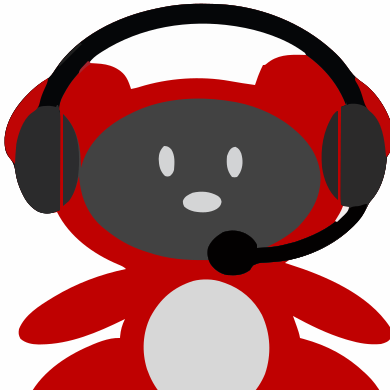
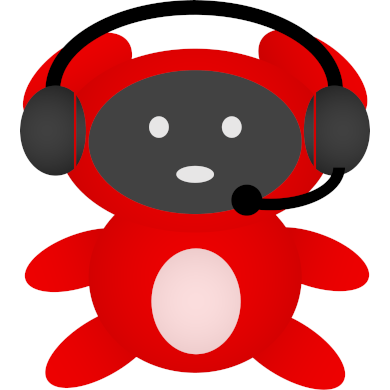
make links in messages clickable and adjust images

diff --git a/src/components/ChatView/ChatView.tsx b/src/components/ChatView/ChatView.tsx
@@ -1,34 +1,65 @@
 import "./ChatView.css"
-import {ChatMessage} from "../../types/ChatMessage";
-import mika from "../../assets/mika.png"
-import {useEffect, useRef} from "react";
+import { ChatMessage } from "../../types/ChatMessage"
+import mika from "../../assets/mika_profilepicture.png"
+import { useEffect, useRef } from "react"
 
 type ChatViewProps = {
-    history: ChatMessage[]
+	history: ChatMessage[]
 }
 
 export default function ChatView(props: ChatViewProps) {
-    const messagesEndRef = useRef<HTMLDivElement>(null);
+	const messagesEndRef = useRef<HTMLDivElement>(null)
 
-    const scrollToBottom = () => {
-        messagesEndRef.current?.scrollIntoView({behavior: 'smooth'})
-    }
+	const scrollToBottom = () => {
+		messagesEndRef.current?.scrollIntoView({ behavior: "smooth" })
+	}
 
-    useEffect(() => {
-        scrollToBottom();
-    })
+	useEffect(() => {
+		scrollToBottom()
+	})
 
-    return (
-        <ul className="chatview-history">
-            {props.history.map((element: ChatMessage, index: number) =>
-                <li key={index}
-                    className={element.fromBot ? "chatview-bot-message" : "chatview-me-message"}>
-                    <span className="chatview-chatbubble">{element.fromBot ?
-                        <img src={mika} width={25} height={25} alt="Mika-Bot"/> : ""}{element.text} </span></li>
-            )}
-            <li>
-                <div ref={messagesEndRef}></div>
-            </li>
-        </ul>
-    )
+	function urlify(text: string) {
+		const urlRegex = /(https?:\/\/[^\s]+)/g
+		return text.split(urlRegex).map((part) => {
+			if (part.match(urlRegex)) {
+				return (
+					<a
+						key={Math.random().toString()}
+						className={"url"}
+						href={part}
+						target="_blank"
+						rel="noopener noreferrer"
+					>
+						{part}
+					</a>
+				)
+			}
+			return part
+		})
+	}
+
+	return (
+		<ul className="chatview-history">
+			{props.history.map((element: ChatMessage, index: number) => (
+				<li
+					key={index}
+					className={
+						element.fromBot ? "chatview-bot-message" : "chatview-me-message"
+					}
+				>
+					<span className="chatview-chatbubble">
+						{element.fromBot ? (
+							<img src={mika} width={25} height={25} alt="Mika-Bot" />
+						) : (
+							""
+						)}
+						<span> {urlify(element.text)} </span>
+					</span>
+				</li>
+			))}
+			<li>
+				<div ref={messagesEndRef}></div>
+			</li>
+		</ul>
+	)
 }

diff --git a/src/components/ChatView/ChatView.css b/src/components/ChatView/ChatView.css
@@ -1,45 +1,63 @@
 .chatview-container {
+}
 
+.url {
+	color: #fff764;
+}
+
+.url:hover {
+	color: #fdff23;
+}
+
+.url:visited {
+	color: #ffc9aa;
+}
+
+.url:active {
+	color: #fdff23;
 }
 
 .chatview-history {
-    list-style: none;
-    padding: 0;
-    display: flex;
-    flex-direction: column;
-    max-height: calc(100vh - 3rem);
-    overflow-y: hide;
+	list-style: none;
+	padding: 0;
+	display: flex;
+	flex-direction: column;
+	max-height: calc(100vh - 3rem);
+	overflow-y: hide;
 }
 
-.chatview-me-message, .chatview-bot-message {
-    margin: 1rem 0 1rem 0;
-    display: flex;
-    word-wrap: anywhere;
-    white-space: pre-line;
-    text-align: left;
+.chatview-me-message,
+.chatview-bot-message {
+	margin: 1rem 0 1rem 0;
+	display: flex;
+	word-wrap: anywhere;
+	white-space: pre-line;
+	text-align: left;
 }
 
 .chatview-me-message {
-    flex-direction: row-reverse;
+	flex-direction: row-reverse;
 }
 
 .chatview-bot-message {
-    flex-direction: row;
+	flex-direction: row;
 }
 
-.chatview-bot-message > span, .chatview-me-message > span {
-    background-color: #d50c2f;
-    padding: 0.5rem;
-    border-radius: 15px;
-    display: flex;
-    max-width: 50%;
+.chatview-bot-message > span,
+.chatview-me-message > span {
+	background-color: #d50c2f;
+	padding: 0.5rem;
+	border-radius: 15px;
+	display: flex;
+	max-width: 50%;
 }
 
 .chatview-me-message > span {
-    background-color: #ad0a26;
+	background-color: #ad0a26;
 }
 
-.chatview-me-message > span > img, .chatview-bot-message > span > img {
-    margin-right: 0.5rem;
-    border-radius: 10px;
+.chatview-me-message > span > img,
+.chatview-bot-message > span > img {
+	margin-right: 0.5rem;
+	border-radius: 10px;
 }

diff --git a/index.html b/index.html
@@ -1,12 +1,13 @@
 <!DOCTYPE html>
 <html lang="en">
-  <head>
-    <meta charset="UTF-8" />
-    <meta name="viewport" content="width=device-width, initial-scale=1.0" />
-    <title>HWR Chatbot</title>
-  </head>
-  <body style="position: absolute; width: 100%; height: 100%;">
-    <div id="root"></div>
-    <script type="module" src="/src/main.tsx"></script>
-  </body>
+	<head>
+		<meta charset="UTF-8" />
+		<meta name="viewport" content="width=device-width, initial-scale=1.0" />
+		<title>HWR Chatbot</title>
+		<link rel="icon" type="image/png" href="src\assets\favicon.ico" />
+	</head>
+	<body style="position: absolute; width: 100%; height: 100%">
+		<div id="root"></div>
+		<script type="module" src="/src/main.tsx"></script>
+	</body>
 </html>

diff --git a/src/components/Chat.tsx b/src/components/Chat.tsx
@@ -16,7 +16,7 @@ type ChatState = {
 export default function Chat({}: ChatProps) {
 	const firstMessage: ChatMessage = {
 		fromBot: true,
-		text: 'Hi, mein Name ist MIKA. Ich bin ein Chatbot und ich kann dir dabei helfen, mehr Informationen über die HWR zu bekommen. Stelle mir dafür einfach eine Frage, wie z.B. "Wofür steht HWR?"',
+		text: 'Hi, mein Name ist MIKA. https://www.hwr-berlin.de/hwr-berlin/ueber-uns/geschichte/. Ich bin ein Chatbot und ich kann dir dabei helfen, mehr Informationen über die HWR zu bekommen. Stelle mir dafür einfach eine Frage, wie z.B. "Was bedeutet HWR?" oder "Welche Studiengänge gibt es an der HWR Berlin?"',
 	}
 	const [state, setState] = useState<ChatState>({ history: [firstMessage] })
 	return (
